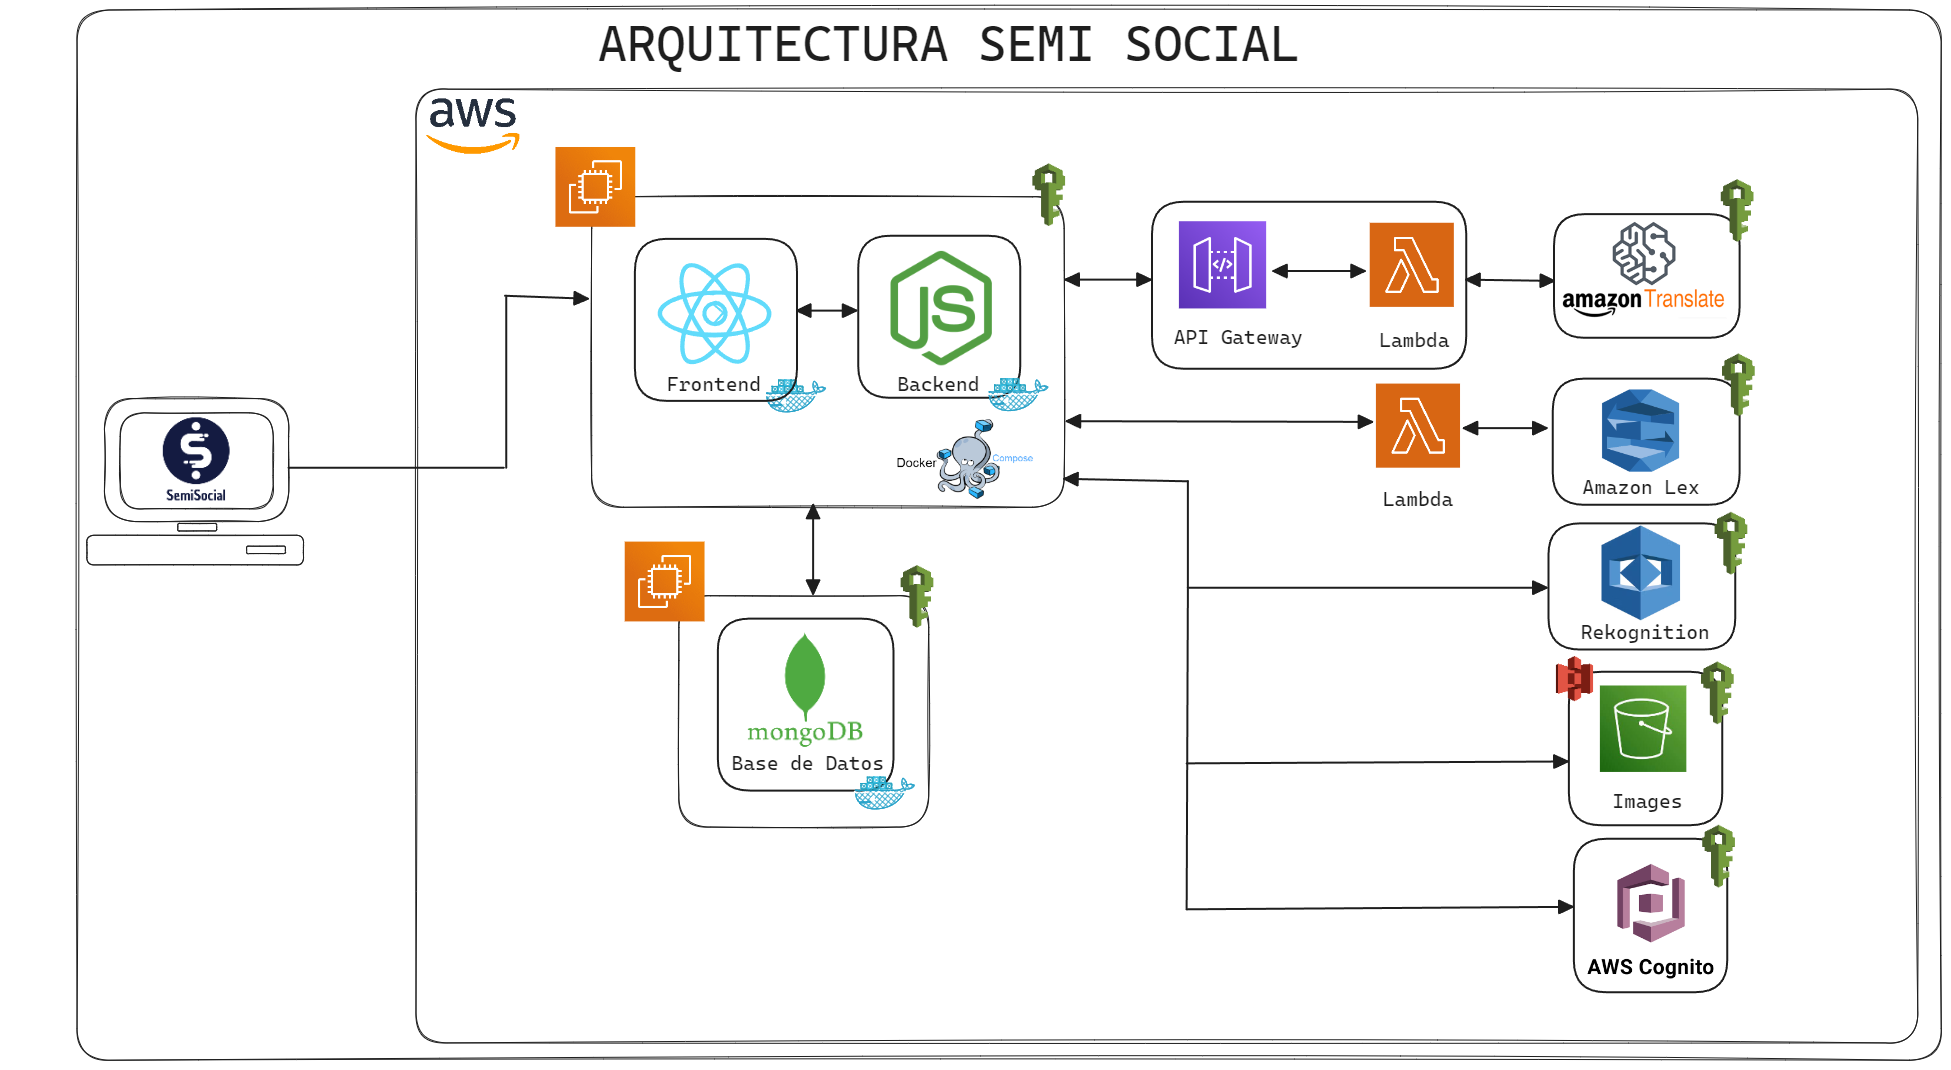
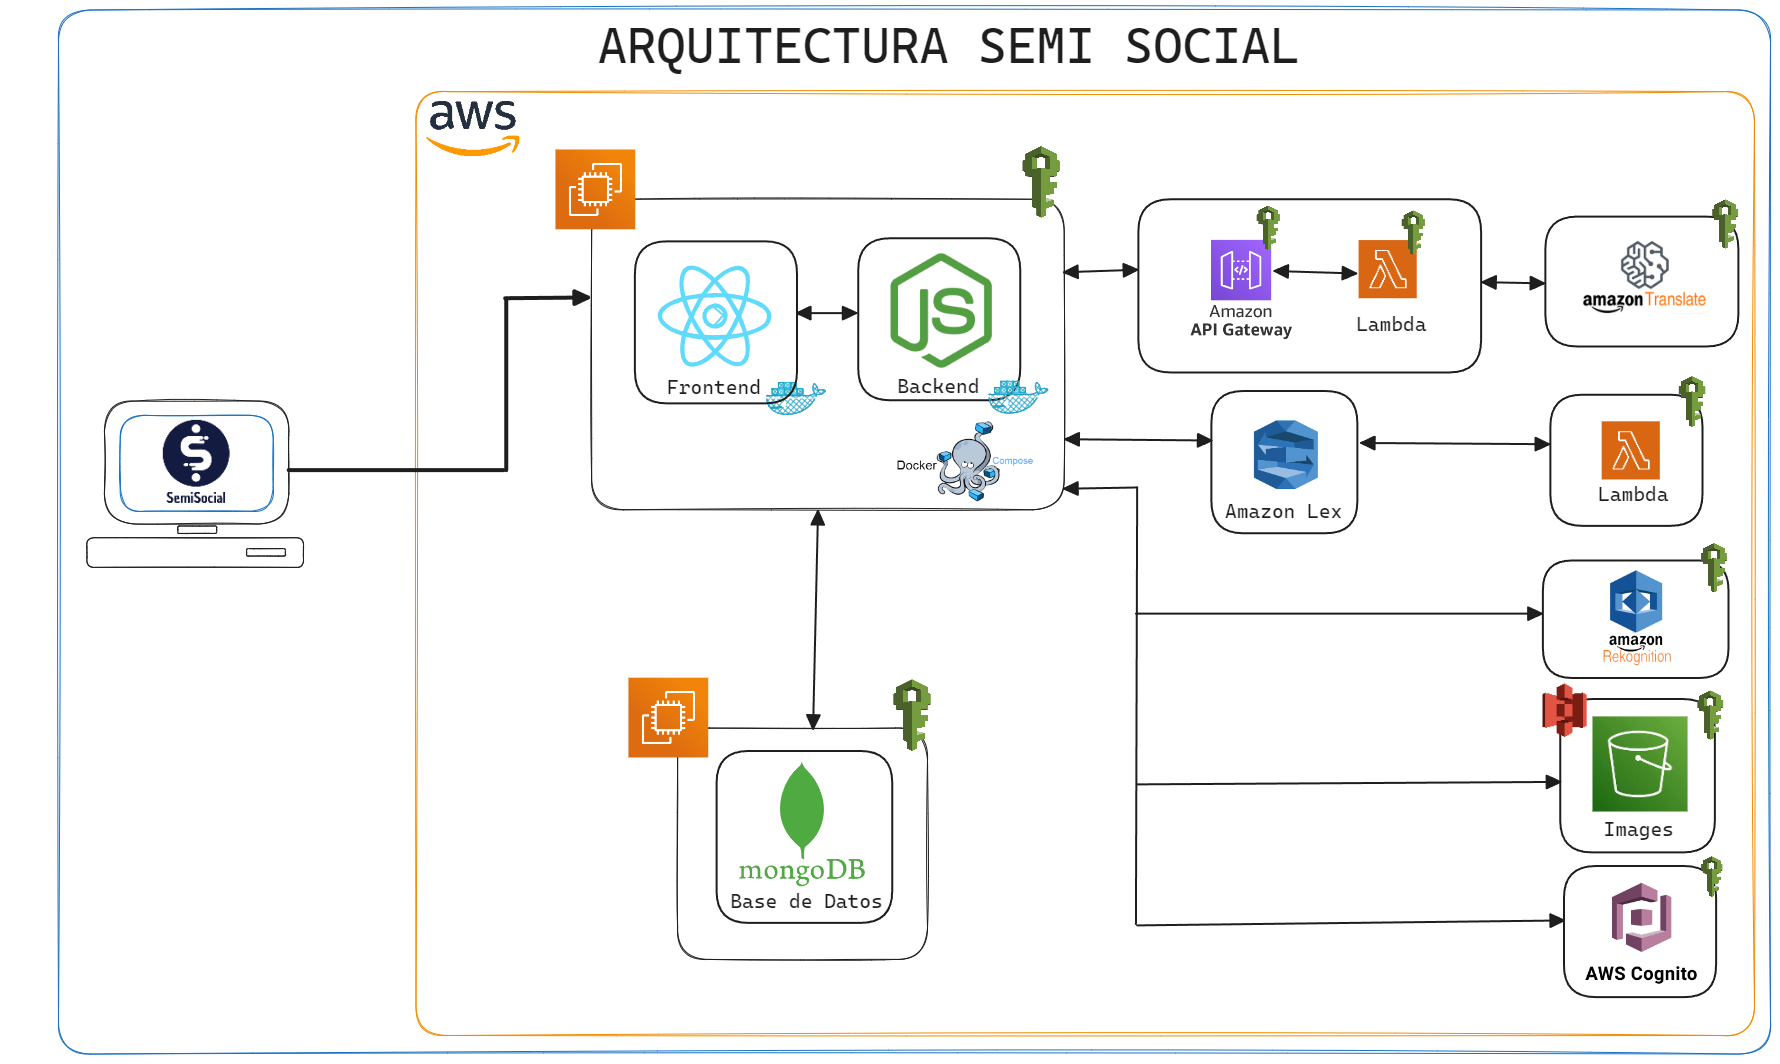
Documentacion

diff --git a/documentacion/Readme.md b/documentacion/Readme.md
@@ -6,7 +6,6 @@
 
 ## INDICE
 
-- [👥 SemiSocial](#-semisocial)
 - [Manual Técnico](#manual-técnico)
   - [INDICE](#indice)
   - [Objetivos](#objetivos)
@@ -29,23 +28,29 @@
     - [Amazon API Gateway](#amazon-api-gateway)
     - [Amazon Lambda](#amazon-lambda)
     - [IAM](#iam)
+      - [Usuarios](#usuarios)
+      - [Grupos de Usuarios](#grupos-de-usuarios)
+      - [Políticas creadas](#políticas-creadas)
   - [Conclusiones](#conclusiones)
 
 ## Objetivos
 
 ### Objetivo General
 
+Desarrollar un aplicación de tipo red social que permita a los usuarios compartir publicaciones, interactuar con otros usuarios y poder traducir textos a diferentes idiomas, además de que puedan usar la inteligencia artificial con bots para interactuar con el y saber acerca de los cursos de la facultad de ingenieria, contando con ello la aplicación desplegada en AWS para que cualquier usuario pueda acceder a ella.
+
 ### Objetivos Específicos
  1. Estructurar eficientemente el proyecto.
  2. Implementar servicios y APIs de AWS
  3. Crear una interfaz de usuario amigable y atractiva, fácil de utilizar proporioconando una buena experiencia al usuario.
 4. Implementar un sistema de autenticación y registro de usuarios haciendo uso de Amazon Cognito.
+5. Utilizar la tecnología de inteligencia artificial de los servicios de AWS para poder hacer interacción con los usuarios desde el reconocimiento facial, traducción de textos y bots. 
 
 ## Arquitectura del Proyecto
 
 ![Arquitectura](./images/arquitectura.png)
 
-
+Nuestra arquitectura esta conformada en donde existe un cliente que serian los usuarios, donde se le mostrara una interfaz de react levantada en EC2 con docker que tiene conexion con una api en NodeJS que esta levantada en la misma EC2 con docker ambos en docker compose, esta api tiene conexion con una base de datos en MongoDB que esta levantada en una distinta EC2 con docker. Ademas se utilizo servicios de AWS como S3, Rekognition, Translate, API Gateway, Lambda, Lex, Cognito e IAM que se conectaron con el servidor en NodeJS.
 
 ## Estructura del Proyecto
 
@@ -229,6 +234,88 @@ Amazon Lambda ayuda a los desarrolladores a construir aplicaciones más rápidam
 
 ### IAM
 
+<div align="center"><img src="https://logowiki.net/uploads/logo/a/aws-iam.svg" width="80"/></div>
+
+Para poder realizar la conexión entre los servicios de AWS se utilizó IAM, en donde se crearon distintos roles para poder acceder a los distintos servicios. Asi mismo tambien se crearon distintos usuarios para poder acceder a los distintos servicios dependiendo del rol que desempeñaran en el desarrollo. A si mismo a cada desarrollador se le asigno un usuario con un rol especifico para poder acceder a los servicios que necesitaban para el desarrollo.
+
+### Usuarios
+
+Se crearon los siguientes usuarios con los números de carnet de los desarrolladores:
+
+- `201900042`
+- `201901772`
+- `202004745`
+- `202010918`
+- `201901121`
+
+![Usuarios](./images/users.png)
+
+### Grupos de Usuarios
+
+Se crearon los siguientes grupos de usuarios:
+
+![grupos](./images/grupos.png)
+
+- `Administrador`: Los usuarios que tengan acceso a este grupo contarán con el acceso a todos los servicios de AWS, asi mismo tambien tienen control a todos los servicios de AWS.
+
+    Cuenta con los siguientes permisos:
+    - AdministratorAccess
+
+    ![admin](./images/adminperm.png)
+
+    Los usuarios que cuentan con este permiso son los siguientes:
+    - `201900042`
+
+    ![usuarios-administrador](./images/admin.png)
+
+- `Backend-devs`: Los usuarios que tengan acceso a este grupo contarán con el acceso a los servicios de EC2, IAM, Cógnito, S3, Lambda, Api Gateway, Translate, Rekognition.
+
+    Cuenta con los siguientes permisos:
+    - AmazonEC2FullAccess
+    - AmazonCognitoFullAccess
+    - AmazonS3FullAccess
+    - IAMFullAccess
+    - AmazonAPIGatewayAdministrator
+    - AmazonRekognitionFullAccess
+    - AmazonTranslateFullAccess
+    - AWSLambda_FullAccess
+
+    ![back](./images/backperm.png)
+
+    Los usuarios que cuentan con este permiso son los siguientes:
+    - `201901772`
+    - `202004745`
+
+    ![usuarios-backend-devs](./images/back.png)
+
+- `Frontend-devs`: Los usuarios que tengan acceso a este grupo contarán con el acceso a los servicios de EC2, S3 E IAM.
+
+    Cuenta con los siguientes permisos:
+    - AmazonEC2FullAccess
+    - IAMFullAccess
+
+    ![front](./images/frontperm.png)
+
+    Los usuarios que cuentan con este permiso son los siguientes:
+    - `201900042`
+    - `202010918`
+    - `201901121`
+
+    ![usuarios-frontend-devs](./images/front.png)
+
+### Políticas creadas
+
+Se crearon las siguientes políticas:
+
+- `acceso-pc-s3`: Para tener el acceso a acceder y manipular S3.
+- `api-gateway-full-access`: Para tener el control de api-gateway.
+- `AWSLambdaBasicExecutionRole-53496c6d-7a7f-4d2a-8be2-533bf51e5d3b `: Para poder escribir en Lambda.
+- `translate-full-access`: Para tener el control de translate.
+- `vpc-full-access`: Para tener el control de vpc.
+
+![politicas](./images/politicas.png)
+
+
 ## Conclusiones
 1. Con una estructuración del proyecto de manera eficiente, se logró tener un mejor control de los archivos y una mejor organización de los mismos. Esto permitió que el desarrollo del proyecto fuera más rapido por parte de los integrantes y que se pudiera tener un mejor control de los cambios realizados, dando resultado a la facilitación en navegación y edición del proyecto, así como también a la reducción, prevención y corrección de errores que surgieron durante el desarrollo de este.
 
@@ -237,3 +324,5 @@ Amazon Lambda ayuda a los desarrolladores a construir aplicaciones más rápidam
 3. El diseño de la interfaz se centró en la estética y la facilidad de uso, lo que permitió que los usuarios pudieran utilizar la aplicación de manera intuitiva y sin complicaciones. Además, se utilizó una paleta de colores que permitiera una mejor visualización de la aplicación y que fuera agradable a la vista del usuario.
 
 4. Es importante implementar un sistema de autenticación y registro de usuarios, ya que esto permite que los usuarios puedan acceder a la aplicación de manera segura y que sus datos estén protegidos. Además, esto permite que los usuarios puedan registrarse en la aplicación y así poder utilizarla.
+
+5. El uso de las herramientas de la tecnología de inteligencia artificial ayuda a que comencemos a adaptar los sistemas o proyectos en base a ello y que se pueda tener una mejor experiencia de usuario, ya que esto permite que los usuarios puedan interactuar con la aplicación de una manera más sencilla, automatizada y que puedan tener una mejor experiencia de usuario.
